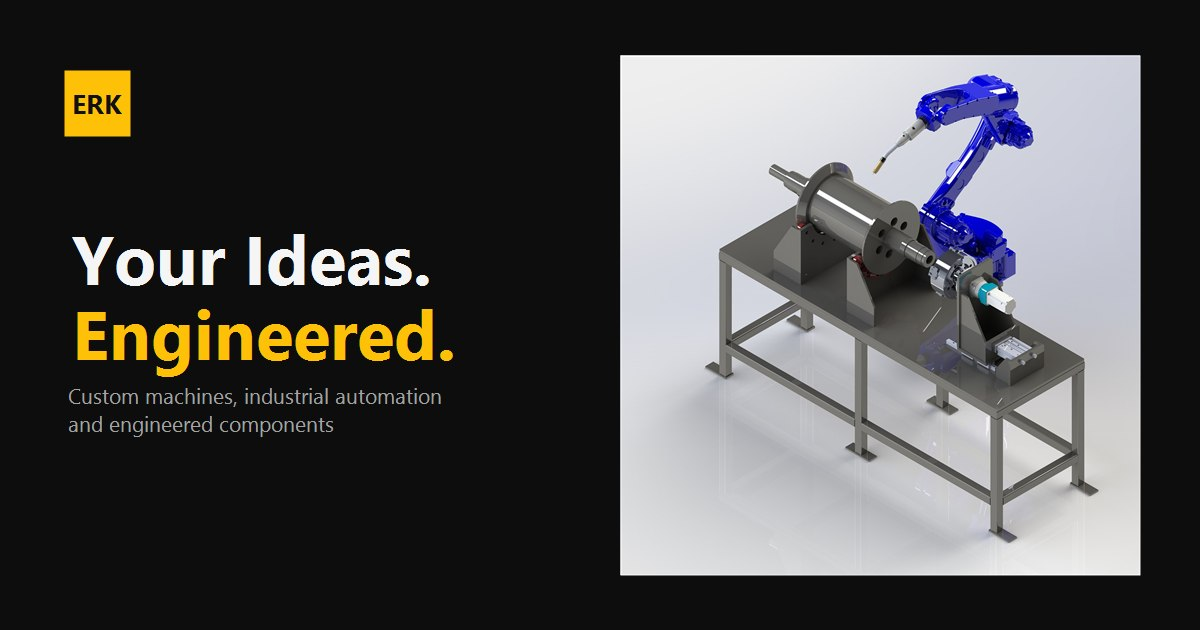
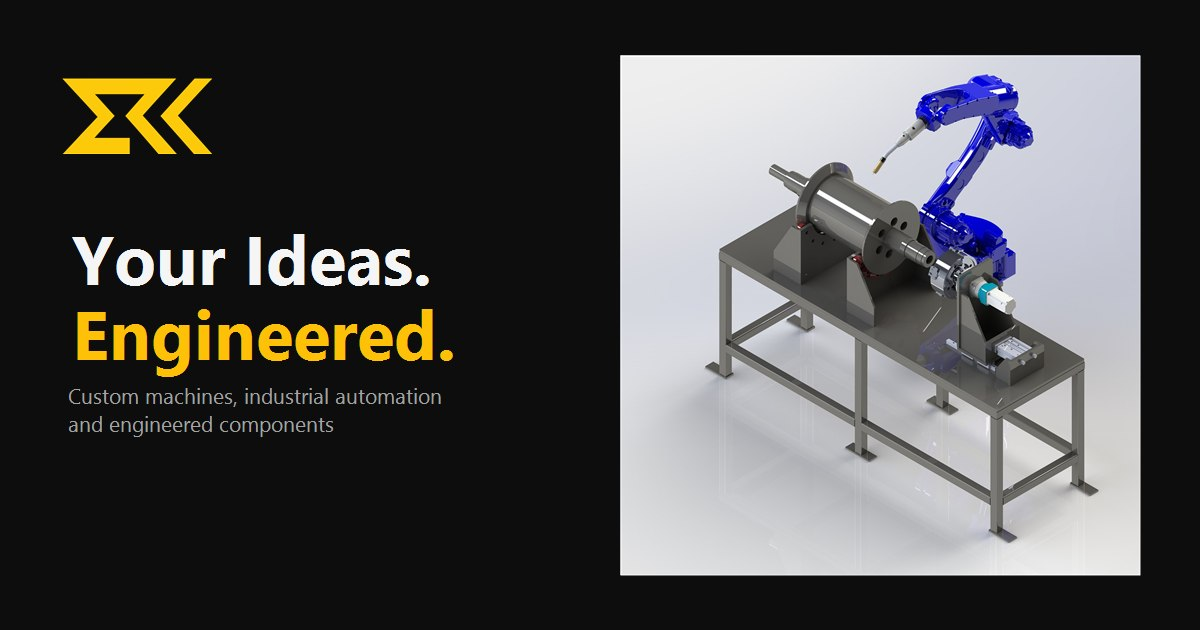
Use the official ERK mark in place of the text placeholder
Replaces the generic yellow "ERK" square in the header and footer with the
supplied brand mark, and uses it for the favicon and the link preview card.

The mark is extracted from the supplied JPEG to a transparent PNG without
touching its geometry: measured bbox 954x484, aspect 1.971, core yellow
#FDC90B. Alpha comes from luminance and the RGB is forced to solid logo
yellow, so anti-aliased edges carry no dark fringe on light backgrounds.

Header height is unchanged at 76px, since it is set on .navbar and the logo
sits inside it at 30px tall. The mark also needed max-width: none, because the
global img rule was squeezing its width while the height stayed fixed, which
distorted it by about 6% at 320px. Aspect is now within 0.01% at every width
down to 320px.

Old favicon.svg removed rather than left as a duplicate.

Changed region(s): [[0.0308, 0.0905, 0.185, 0.2714]]

diff --git a/index.html b/index.html
@@ -6,7 +6,9 @@
 <title>ERK, Enjinia Resolved Krafts | Custom Machines &amp; Industrial Automation</title>
 <meta name="description" content="ERK designs and builds custom machines, industrial automation systems, and engineered components for real production needs." />
 <link rel="canonical" href="https://enjiniaresolvedkrafts.com/" />
-<link rel="icon" href="favicon.svg" type="image/svg+xml" />
+<link rel="icon" type="image/png" sizes="32x32" href="assets/brand/icon-32.png" />
+<link rel="icon" type="image/png" sizes="48x48" href="assets/brand/icon-48.png" />
+<link rel="apple-touch-icon" href="assets/brand/icon-180.png" />
 
 <!-- Link previews, which is how most of this gets shared -->
 <meta property="og:type" content="website" />
@@ -35,7 +37,7 @@
   "name": "ERK, Enjinia Resolved Krafts",
   "alternateName": "ERK",
   "url": "https://enjiniaresolvedkrafts.com/",
-  "logo": "https://enjiniaresolvedkrafts.com/favicon.svg",
+  "logo": "https://enjiniaresolvedkrafts.com/assets/brand/icon-180.png",
   "image": "https://enjiniaresolvedkrafts.com/assets/images/og-share.jpg",
   "description": "ERK designs and builds custom machines, industrial automation systems, and engineered components for real production needs.",
   "address": { "@type": "PostalAddress", "addressCountry": "IN" },
@@ -64,7 +66,7 @@
 <header>
   <nav class="navbar wrap">
     <a href="#" class="brand">
-      <span class="brand-mark">ERK</span>
+      <img class="brand-logo" src="assets/brand/erk-logo.png" alt="ERK" width="800" height="406" />
       <span class="brand-name">Enjinia Resolved Krafts</span>
     </a>
     <ul class="nav-links" id="nav-links">
@@ -222,7 +224,7 @@
     <div class="footer-grid">
       <div class="footer-col">
         <div class="footer-brand">
-          <span class="brand-mark">ERK</span>
+          <img class="brand-logo" src="assets/brand/erk-logo.png" alt="ERK" width="800" height="406" />
           <span class="brand-name">Enjinia Resolved Krafts</span>
         </div>
         <p>We design and build custom machines, automation systems and engineered parts that hold up on a production floor.</p>

diff --git a/styles/styles.css b/styles/styles.css
@@ -205,20 +205,18 @@ header {
   height: 76px;
 }
 
-.brand { display: flex; align-items: center; gap: 0.65rem; text-decoration: none; }
+.brand { display: flex; align-items: center; gap: 0.65rem; text-decoration: none; flex-shrink: 0; }
 
-.brand-mark {
-  display: inline-flex;
-  align-items: center;
-  justify-content: center;
-  width: 38px;
-  height: 38px;
-  border-radius: 8px;
-  background: var(--yellow);
-  color: #111111;
-  font-weight: 800;
-  font-size: 0.92rem;
-  letter-spacing: -0.02em;
+/* Official ERK mark. Height is fixed and width follows the logo's own ratio,
+   so it can never stretch. The header height is set on .navbar and is
+   unaffected by this. */
+.brand-logo {
+  height: 30px;
+  width: auto;
+  /* Overrides the global img max-width, which would otherwise squeeze the
+     width while the height stayed fixed and distort the mark on narrow screens. */
+  max-width: none;
+  flex-shrink: 0;
 }
 
 /* Wordmark is secondary to the ERK mark */
